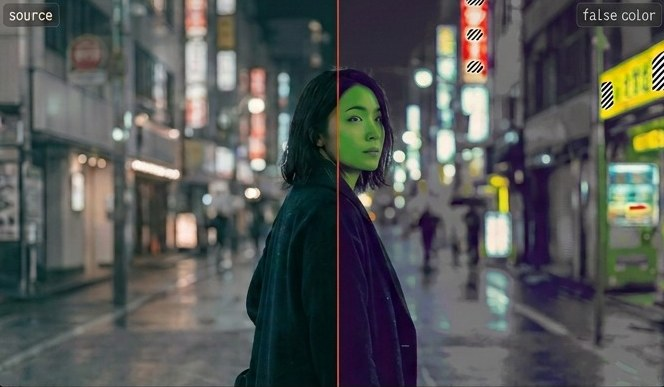
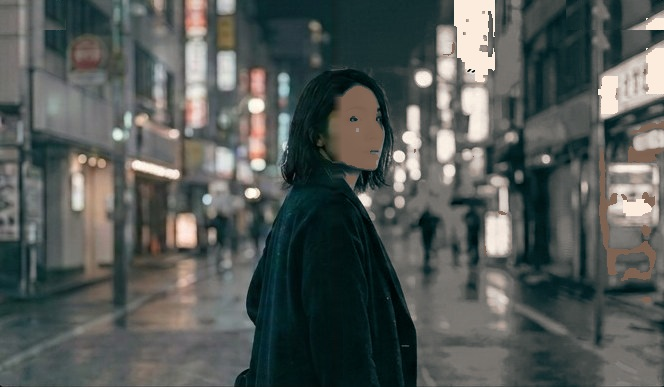
kimo-gui: m05 live false-colour LUT + true-chromaticity CIE fill
Viewer: the false-colour side is now computed in the GUI, not baked into
the frame. A canvas over the right of the split runs a standard exposure
LUT on Rec.709 luma: <2.5 IRE pink-purple (crushed), 2.5-16 purple,
39.5-43 green (skin), 92-97 yellow/orange, >=97 red with zebra hatch,
everything else grey. Cached per src+size, painted once per render, so
it works on any frame (engine frame_rendered too). A completed
*false_color* tool turns it on. The m05 demo frame is now a clean source
(the mockup's baked tags, split line and false colours removed; skin
held at ~41 IRE) so the LUT itself puts the green on the face.

CIE 1931: the horseshoe fill is real chromaticity (xy -> XYZ -> sRGB,
max channel = 1, saturation curve 1.6, 80% brightness) painted on a
canvas under the locus/gamut SVG, replacing the pastel gradients.

diff --git a/crates/kimo-gui/ui/panels.js b/crates/kimo-gui/ui/panels.js
@@ -79,6 +79,8 @@ function viewer({ spec, data, w, h, state }) {
     (data.src ? `<img src="${E(data.src)}" alt="">` : '<div class="ph-frame"></div>') +
     // a running grade/effect wipes across the frame: before (ungraded) on the right of the edge, result on the left
     (data.src && data.wipe != null && data.wipe < 1 ? `<img class="before" src="${E(data.src)}" alt="" style="clip-path:inset(0 0 0 ${px(data.wipe * 100)}%)"><i class="wipe" style="left:${px(data.wipe * fw)}px"></i>` : '');
+  // false colour: the frame's right side through the exposure LUT (painted by POST.viewer), split edge in ember
+  if (data.src && data.falsecolor) { const sp = data.falsecolor.split ?? .5; html += `<canvas class="fc" width="${Math.round(fw)}" height="${Math.round(fh)}" style="clip-path:inset(0 0 0 ${px(sp * 100)}%)"></canvas><i class="split" style="left:${px(sp * fw)}px"></i>`; }
   if (data.overlay) html += `<svg class="ov" viewBox="0 0 ${fw} ${fh}">${overlay(data.overlay, fw, fh)}</svg>`;
   for (const t of (data.tags || (data.tag ? [{ text: data.tag }] : []))) {
     const pos = t.pos === 'tr' ? `right:${t.x ?? 10}px` : `left:${t.x ?? 10}px`;
@@ -479,8 +481,52 @@ function scopeGeom(o, w, h) {
   return { wx0: o.wx0 ?? 44, wx1: o.wx1 ?? 680, wy0: o.wy0 ?? 20, wy1: o.wy1 ?? 222, split: o.split ?? 701, vx: o.vx ?? 894, vy: o.vy ?? 122, vr: o.vr ?? 110 };
 }
 const DIG = '0123456789abcdefghijklmnopqrstuvwxyz';
+// ---------- false colour ----------
+// Standard exposure LUT on Rec.709 luma (IRE = code value / 255 * 100):
+//   < 2.5 crushed: pink-purple · 2.5-16 shadows: purple · 39.5-43 skin: green
+//   92-97 high: yellow/orange · >= 97 clipping: red with zebra hatch · else grey.
+// Pure function of the decoded frame; cached per src+size so a re-render only blits.
+export function falseColorLUT(Y, x, y) {
+  if (Y < 2.5) return [138, 44, 122];
+  if (Y < 16) { const k = .55 + Y / 16 * .9; return [34 * k, 19 * k, 51 * k]; }
+  if (Y >= 39.5 && Y < 43) { const k = Y / 41.6; return [84 * k, 120 * k, 62 * k]; }
+  if (Y >= 97) return ((x + y) >> 2) & 1 ? [40, 10, 8] : [224, 48, 42];
+  if (Y >= 92) return Y >= 95 ? [238, 128, 36] : [232, 196, 52];
+  return null;
+}
+const FC = new Map();
+function paintFalseColor(cv, im) {
+  const w = cv.width, h = cv.height, key = im.src.length + ':' + im.src.slice(-64) + ':' + w + 'x' + h;
+  let d = FC.get(key);
+  if (!d) {
+    const c = document.createElement('canvas'); c.width = w; c.height = h; const g = c.getContext('2d');
+    const s = Math.max(w / im.naturalWidth, h / im.naturalHeight), dw = im.naturalWidth * s, dh = im.naturalHeight * s; // object-fit: cover
+    g.drawImage(im, (w - dw) / 2, (h - dh) / 2, dw, dh);
+    d = g.getImageData(0, 0, w, h); const p = d.data;
+    for (let i = 0, n = 0; i < p.length; i += 4, n++) {
+      const Y = (.2126 * p[i] + .7152 * p[i + 1] + .0722 * p[i + 2]) / 2.55, x = n % w, y = (n / w) | 0;
+      const f = falseColorLUT(Y, x, y);
+      if (f) { p[i] = f[0]; p[i + 1] = f[1]; p[i + 2] = f[2]; }
+      else { const v = Y * 2.55; p[i] = v * .85 + p[i] * .15; p[i + 1] = v * .85 + p[i + 1] * .15; p[i + 2] = v * .85 + p[i + 2] * .15; }
+    }
+    if (FC.size > 8) FC.clear();
+    FC.set(key, d);
+  }
+  cv.getContext('2d').putImageData(d, 0, 0);
+}
+
 // After-mount painters (canvas): called by the render loop right after a panel's markup lands.
 export const POST = {
+  cie(el, { spec, w, h }) {
+    const cv = el.querySelector('canvas.ciecv'); if (!cv) return;
+    const [ox, oy, scx, scy] = cv.dataset.geo.split(',').map(Number), dpr = window.devicePixelRatio || 1;
+    cv.width = Math.round(w * dpr); cv.height = Math.round(h * dpr);
+    cv.getContext('2d').putImageData(cieFill(w, h, ox, oy, scx, scy, dpr, (spec.opts || {}).fillOp ?? .85), 0, 0);
+  },
+  viewer(el) {
+    const cv = el.querySelector('canvas.fc'), im = el.querySelector('.frame img'); if (!cv || !im) return;
+    if (im.complete && im.naturalWidth) paintFalseColor(cv, im); else im.addEventListener('load', () => paintFalseColor(cv, im), { once: true });
+  },
   scopes(el, { spec, data, w, h }) {
     const cv = el.querySelector('canvas.scopecv'); if (!cv || !data.wave) return;
     const dpr = window.devicePixelRatio || 1;
@@ -532,7 +578,7 @@ function cie({ spec, data, w, h }) {
     <linearGradient id="cy" x1="0" x2="0" y1="1" y2="0"><stop offset="0" stop-color="#5a2bff" stop-opacity=".9"/><stop offset=".5" stop-color="#ffffff" stop-opacity=".0"/><stop offset="1" stop-color="#30ff60" stop-opacity=".7"/></linearGradient>
     <radialGradient id="cw" cx="${px(P([.3127, .329])[0])}" cy="${px(P([.3127, .329])[1])}" r="${px(.16 * scx)}" gradientUnits="userSpaceOnUse"><stop offset="0" stop-color="#fff" stop-opacity=".4"/><stop offset="1" stop-color="#fff" stop-opacity="0"/></radialGradient></defs>`;
   if (o.grid) { for (let v = 0; v <= .9001; v += .1) { const [x] = P([v, 0]), [, y] = P([0, v]); if (v <= .8001) s += `<line x1="${x}" x2="${x}" y1="${px(by)}" y2="${px(oy)}" stroke="${o.gridC || '#24241f'}"/>`; s += `<line x1="${px(bx)}" x2="${px(bx + (o.gridW ?? bw))}" y1="${y}" y2="${y}" stroke="${o.gridC || '#24241f'}"/>`; } }
-  s += `<g clip-path="url(#hs)" opacity="${o.fillOp ?? .85}"><rect x="${bx}" y="${by}" width="${bw}" height="${bh}" fill="url(#cx)"/><rect x="${bx}" y="${by}" width="${bw}" height="${bh}" fill="url(#cy)"/>${o.white ? `<rect x="${bx}" y="${by}" width="${bw}" height="${bh}" fill="url(#cw)"/>` : ''}</g>`;
+  // the horseshoe fill is real chromaticity (xy -> XYZ -> sRGB, max channel = 1), painted by POST.cie
   s += `<path d="${path}" fill="none" stroke="#d9d4c9" stroke-width="1"/>`;
   for (const g of (data.gamuts || [])) {
     const lp = g.lpt ? P(g.lpt) : [P(g.pts[1])[0] + 6, P(g.pts[1])[1] + 2];
@@ -540,7 +586,25 @@ function cie({ spec, data, w, h }) {
   }
   for (const p of (data.points || [])) s += p[2] === 'ring' ? `<circle cx="${P(p)[0]}" cy="${P(p)[1]}" r="3" fill="none" stroke="#f4f0e8" stroke-width="1.4"/>` : `<circle cx="${P(p)[0]}" cy="${P(p)[1]}" r="3.5" fill="var(--ember)"/>`;
   s += `<text x="${o.labX ?? w / 2}" y="${h - (o.labB ?? 12)}" font-size="${o.labFs ?? 10.5}" fill="var(--dim)" text-anchor="middle" font-family="${o.labFont ?? 'inherit'}">${E(data.label || 'CIE 1931')}</text>`;
-  return head(spec, data) + `<svg style="position:absolute;inset:0" width="${w}" height="${h}" viewBox="0 0 ${w} ${h}">${s}</svg>`;
+  return head(spec, data) + `<canvas class="ciecv" data-geo="${[ox, oy, scx, scy].join(',')}" style="position:absolute;inset:0;width:${w}px;height:${h}px;pointer-events:none"></canvas>` +
+    `<svg style="position:absolute;inset:0" width="${w}" height="${h}" viewBox="0 0 ${w} ${h}">${s}</svg>`;
+}
+const CIEC = new Map(), DIM = .8, SAT = 1.6; // the mockup's horseshoe: ~20% under full brightness, a smaller white core
+function cieFill(w, h, ox, oy, scx, scy, dpr, op) {
+  const key = [w, h, ox, oy, scx, scy, dpr, op].join(); let d = CIEC.get(key); if (d) return d;
+  const W = Math.round(w * dpr), H = Math.round(h * dpr), c = document.createElement('canvas'); c.width = W; c.height = H;
+  const g = c.getContext('2d'); d = g.createImageData(W, H); const p = d.data;
+  const path = new Path2D(LOCUS.map((q, i) => (i ? 'L' : 'M') + (ox + q[0] * scx) * dpr + ' ' + (oy - q[1] * scy) * dpr).join('') + 'Z');
+  const gam = v => v <= .0031308 ? 12.92 * v : 1.055 * Math.pow(v, 1 / 2.4) - .055;
+  for (let j = 0; j < H; j++) for (let i = 0; i < W; i++) {
+    if (!g.isPointInPath(path, i + .5, j + .5)) continue;
+    const x = ((i + .5) / dpr - ox) / scx, y = (oy - (j + .5) / dpr) / scy; if (y <= 1e-4) continue;
+    const X = x / y, Z = (1 - x - y) / y;
+    let r = 3.2406 * X - 1.5372 - .4986 * Z, gg = -.9689 * X + 1.8758 + .0415 * Z, b = .0557 * X - .2040 + 1.0570 * Z;
+    r = Math.max(0, r); gg = Math.max(0, gg); b = Math.max(0, b); const m = Math.max(r, gg, b) || 1;
+    const k = (j * W + i) * 4; p[k] = 255 * DIM * gam((r / m) ** SAT); p[k + 1] = 255 * DIM * gam((gg / m) ** SAT); p[k + 2] = 255 * DIM * gam((b / m) ** SAT); p[k + 3] = 255 * op;
+  }
+  if (CIEC.size > 4) CIEC.clear(); CIEC.set(key, d); return d;
 }
 
 // ---------- loudness ----------

diff --git a/crates/kimo-gui/ui/app.css b/crates/kimo-gui/ui/app.css
@@ -224,6 +224,8 @@ body.calls-sans{--call-font:var(--sans)}
 
 /* live wipe while a grade/effect call runs (driven by progress events) */
 .frame img.before{position:absolute;inset:0;width:100%;height:100%;object-fit:cover;filter:saturate(.25) brightness(.82) contrast(.92)}
+.frame canvas.fc{position:absolute;inset:0;width:100%;height:100%}
+.frame .split{position:absolute;top:0;bottom:0;width:2px;margin-left:-1px;background:var(--ember)}
 .frame .wipe{position:absolute;top:0;bottom:0;width:2px;margin-left:-1px;background:var(--ember);box-shadow:0 0 0 1px rgba(255,90,35,.25)}
 .kv .row.emb.bar{background:var(--emb-row-bg,transparent);margin:0 -15px;padding:0 15px}
 .call.recent .fn,.call.recent .args,.call.recent .pp{font-weight:600}

diff --git a/crates/kimo-gui/ui/router.js b/crates/kimo-gui/ui/router.js
@@ -172,6 +172,7 @@ export function route(ev, state, MODES) {
     out.push({ type: 'tool_end', id, name: ev.tool_name, dur_ms: dur, status: err ? 'error' : 'ok', error: P.error, ...(landed ? { args: landed } : {}) });
     if (!err) {
       const v = views(state); if (v.viewer && v.viewer.wipe != null) v.viewer.wipe = 1;
+      if (/false_?colou?r/.test(String(ev.tool_name).toLowerCase())) { v.viewer = v.viewer || {}; v.viewer.falsecolor = { split: P.split ?? .5 }; }
       const hit = timelineOps(state, MODES, ev, fam);
       const diff = inspectorDiff(state, MODES, ev, fam);
       if (!hit && !diff) hud(state, ev, fam, ev.tool_name + ' ✓'); else hud(state, ev, fam, ev.tool_name + ' ✓');

diff --git a/crates/kimo-gui/demo/build_scenarios.py b/crates/kimo-gui/demo/build_scenarios.py
@@ -110,7 +110,7 @@ scen("m04", "mixing", "dune_film.kimo", "codex", hms("00:21:09"),
 scen("m05", "color", "dune_film.kimo", "codex", hms("00:26:51"),
   [["analyze_exposure", ["clip_07"], 500], ["render_scope", ["clip_07", "waveform"], 200], ["render_scope", ["clip_07", "vectorscope"], 200], ["render_exposure_false_color", ["clip_07"], 300],
    ["render_ocio_display_view", ["ACES2", "PQ"], 600], ["render_scope", ["clip_07", "cie1931"], 300], ["hdr_validate", ["clip_07", "PQ 1000"], 400], ["render_gamut_excursions", ["clip_07"], 900]],
-  {"viewer": {"src": F("m05"), "tags": [{"text": "source"}, {"text": "false color", "pos": "tr"}], "tc": "01:00:42:19", "res": "3840 x 2160 24p"},
+  {"viewer": {"src": F("m05"), "tags": [{"text": "source"}, {"text": "false color", "pos": "tr"}], "tc": "01:00:42:19", "res": "3840 x 2160 24p", "falsecolor": {"split": 0.5075}},
    "pipe": {"blocks": [K("input", "ARRI LogC4"), K("working", "ACEScg"), K("view", "ACES 2.0", emb=True, bar=True), K("output", "Rec.2100 PQ"), S("HDR"),
              K("MaxCLL", "812 nits", h=34), K("MaxFALL", "214 nits", h=34), K("Peak", "1000 nits", h=34), K("Out of gamut", "2.4%", h=34), K("PQ check", "pass", h=34)]},
    "scopes": json.load(open(os.path.join(HERE, "m05_scopes.json"))), "cie": {"gamuts": [{"pts": [[.68, .32], [.265, .69], [.15, .06]], "label": "P3", "color": "#efe9dd", "w": 2, "lpt": [.255, .715]}, {"pts": [[.64, .33], [.30, .60], [.15, .06]], "label": "Rec.709", "color": "#ffffff", "w": 1.6, "lpt": [.13, .2]}], "points": [[.3127, .329, "ring"]]}})
